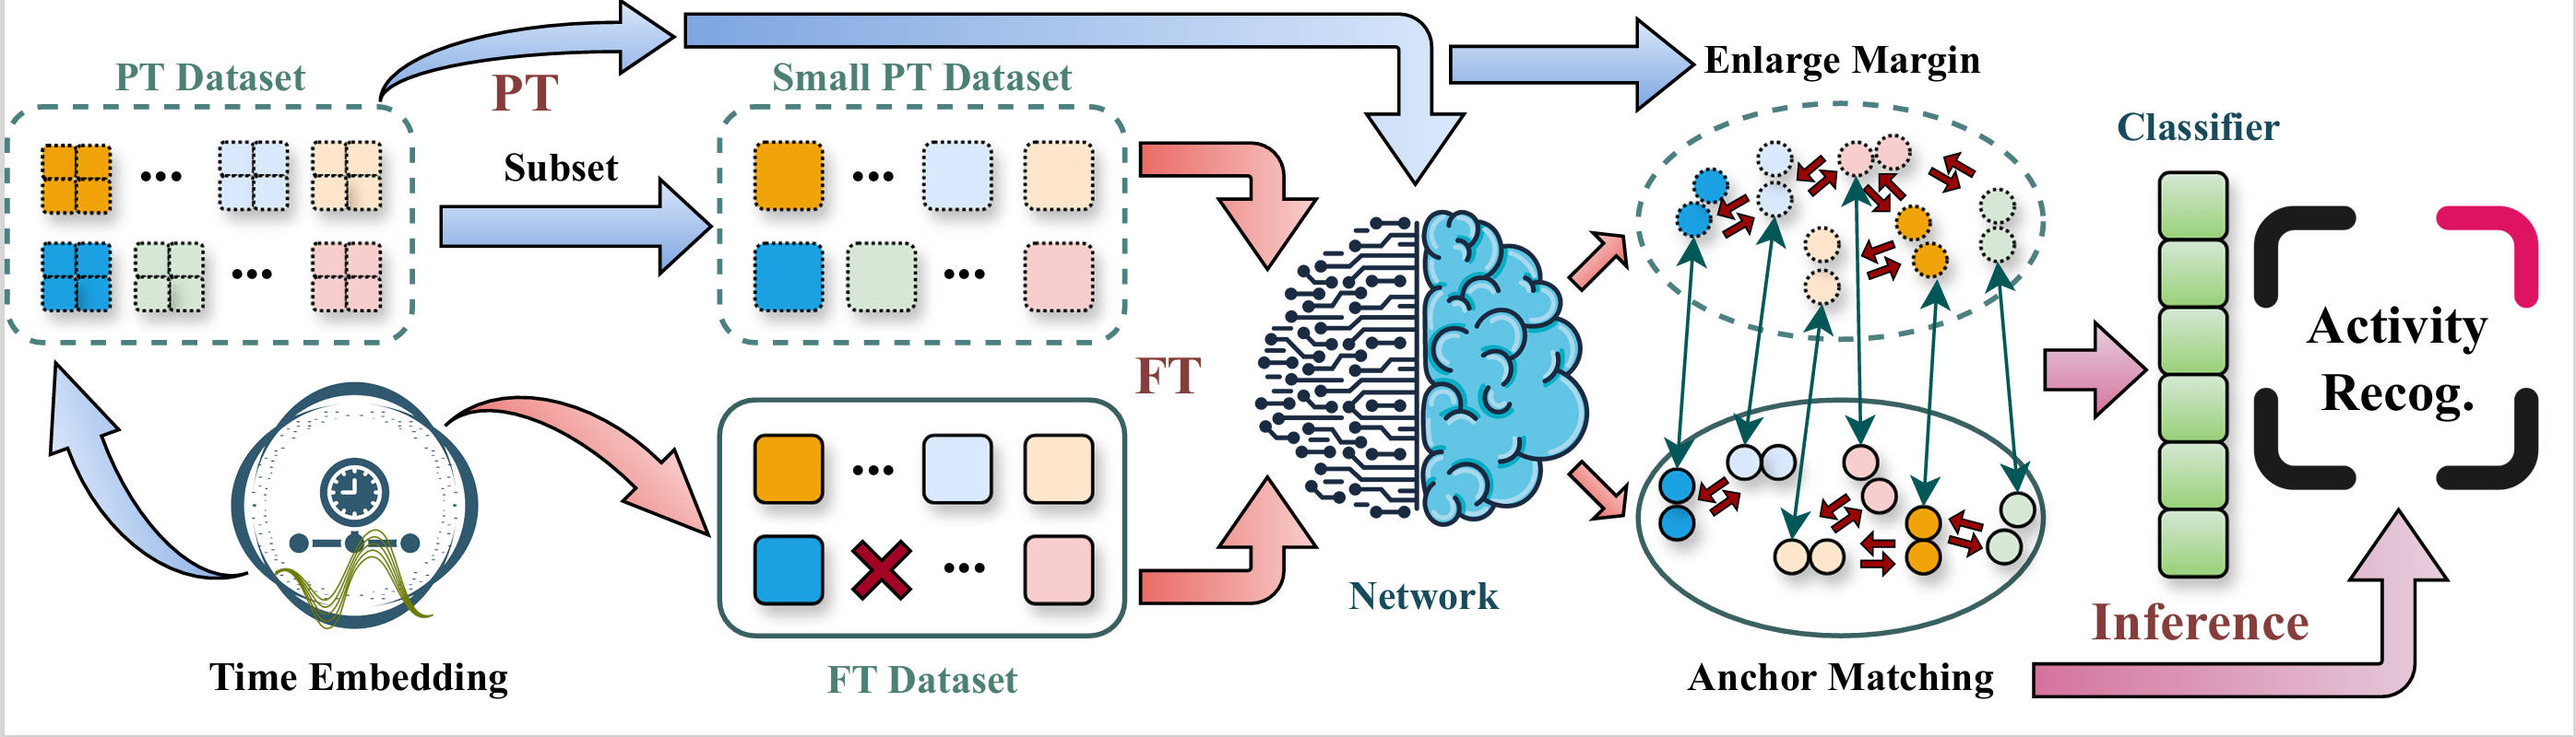
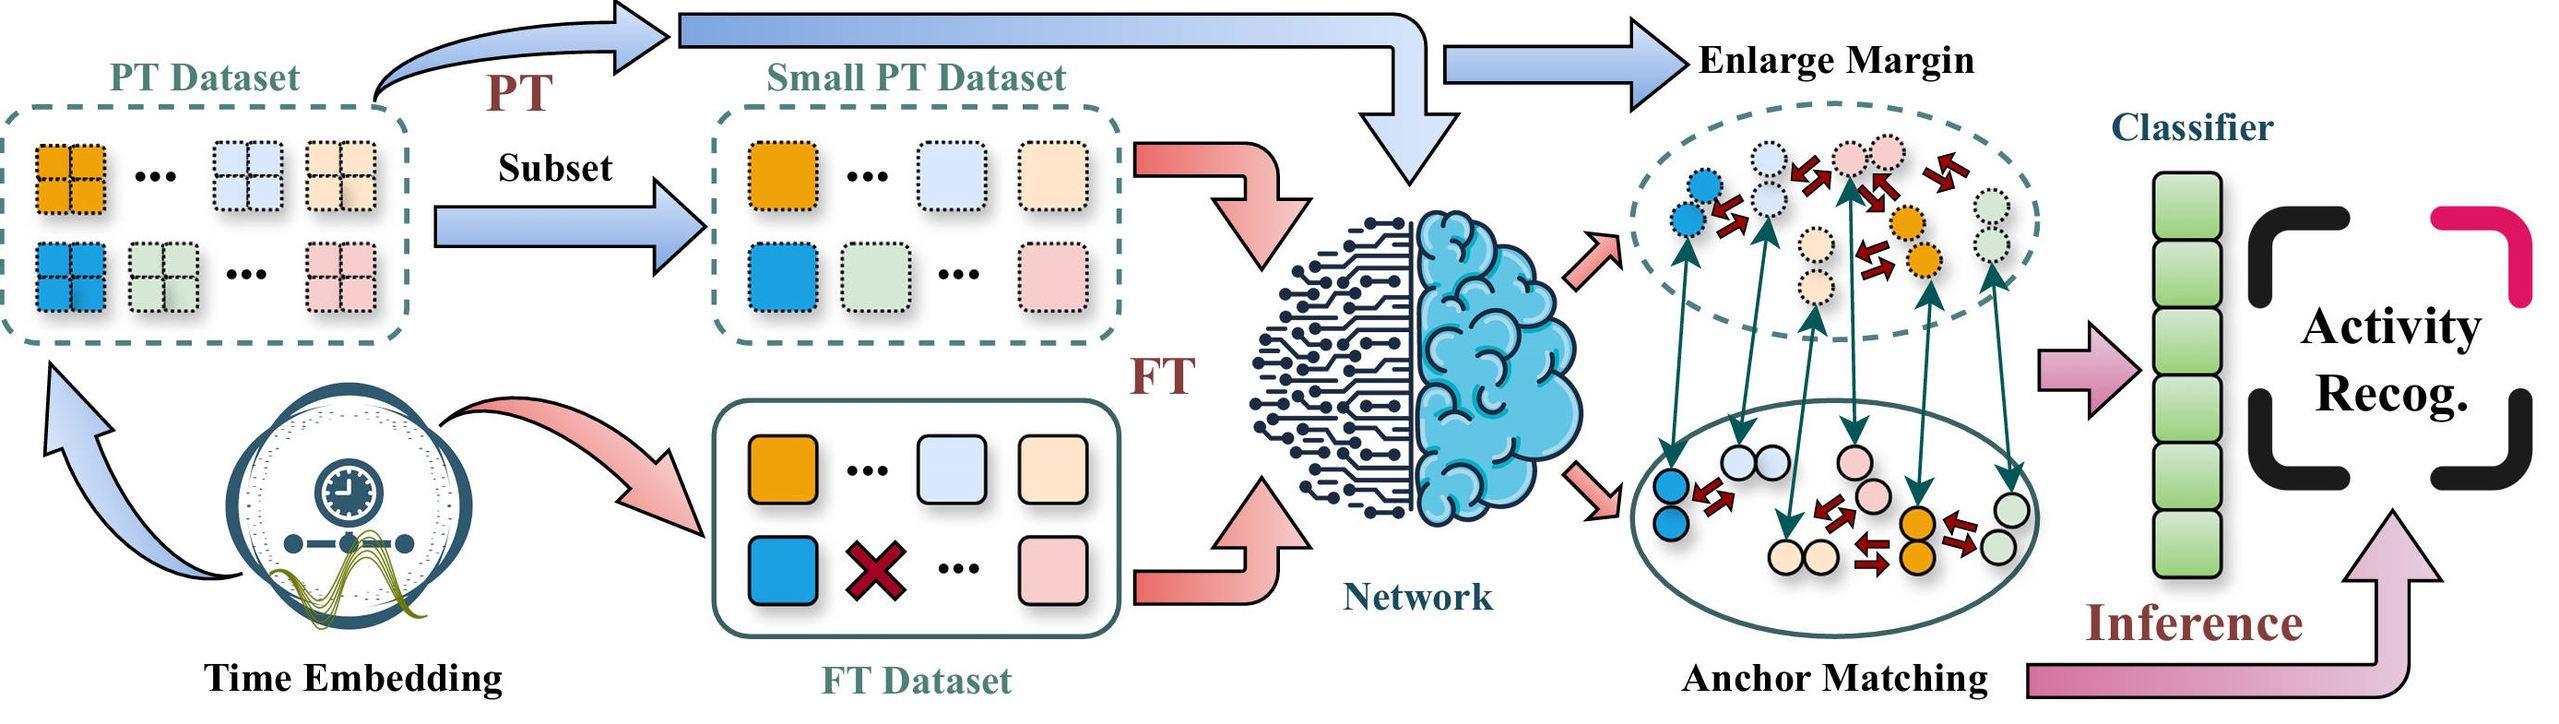
update

diff --git a/_publications/2026-08-TPAMI.md b/_publications/2026-08-TPAMI.md
@@ -2,7 +2,7 @@
 title: "Cross-Domain Multi-Person Human Activity Recognition via Near-Field Wi-Fi Sensing"
 collection: publications
 permalink: /publication/2026-08-TPAMI
-excerpt: 'In this paper, we propose WiAnchor, a novel training framework for efficient cross-domain adaptation, and NSF-Fi, a multi-person near-field sensing dataset [Code](https://github.com/DeepWiSe888/NFS-Fi).'
+excerpt: 'In this paper, we propose WiAnchor, a novel training framework for efficient cross-domain adaptation, and NFS-Fi, a multi-person near-field sensing dataset. [Code](https://github.com/DeepWiSe888/NFS-Fi)'
 date: 2026-08-30
 venue: 'IEEE TPAMI'
 paperurl: 'https://ieeexplore.ieee.org/document/11673827'
